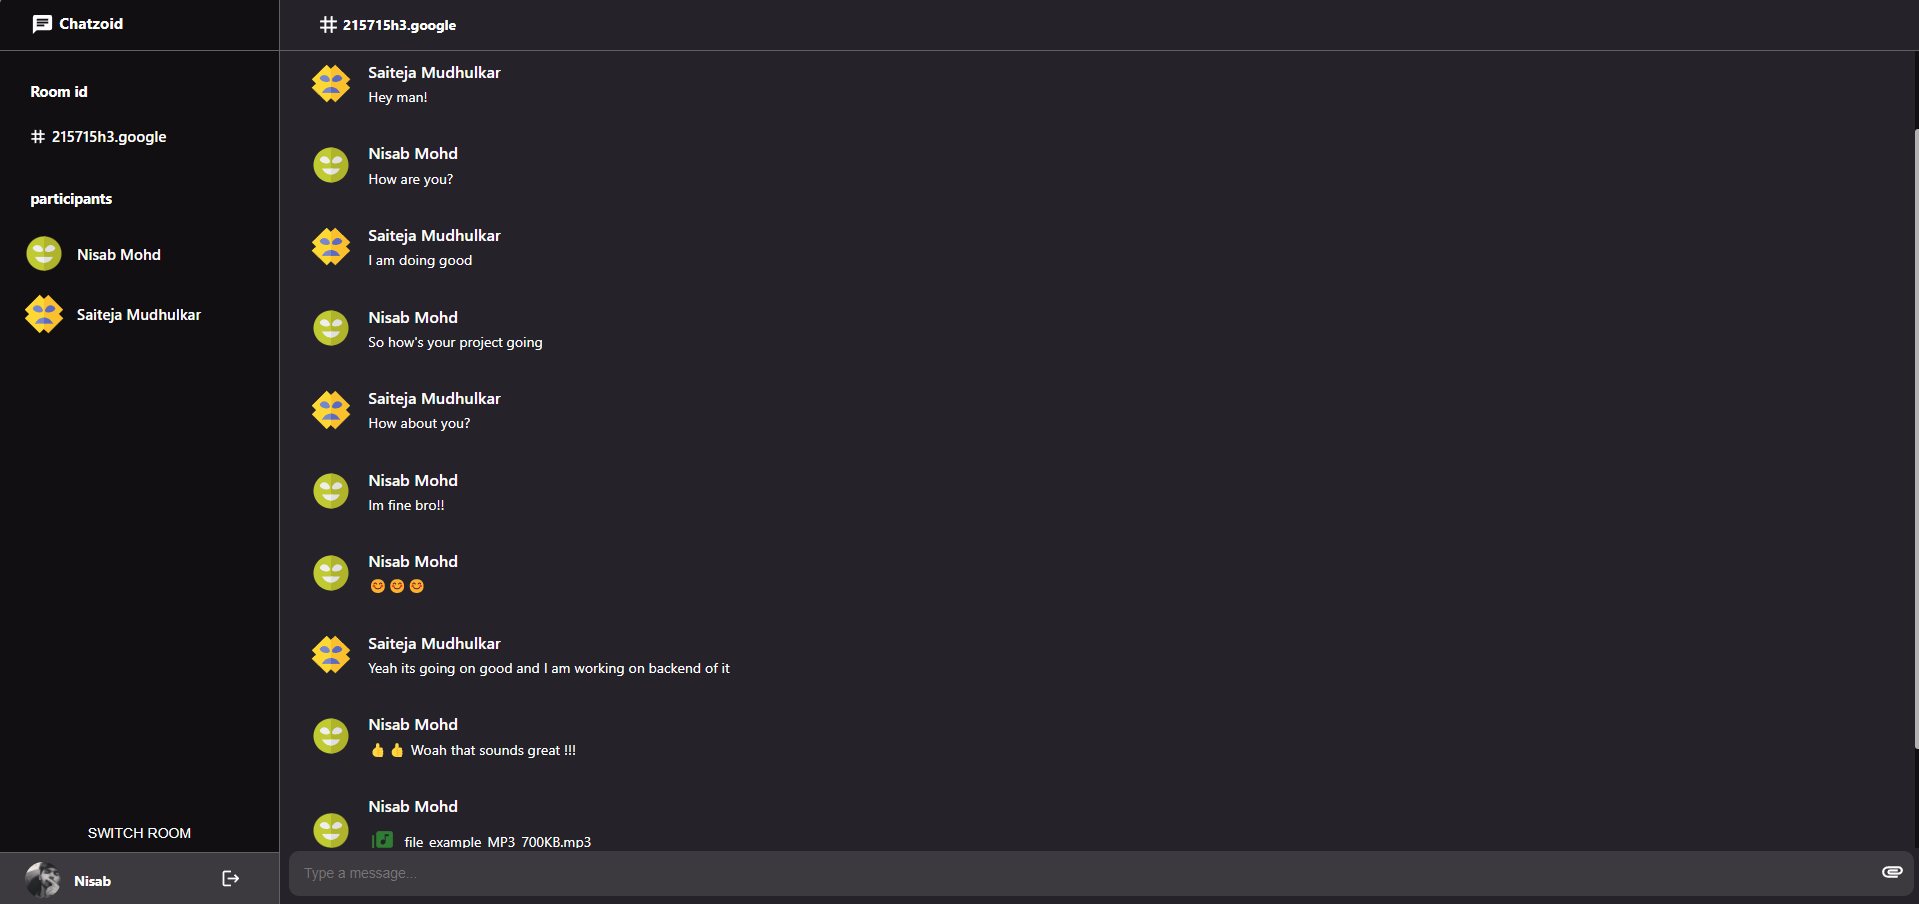
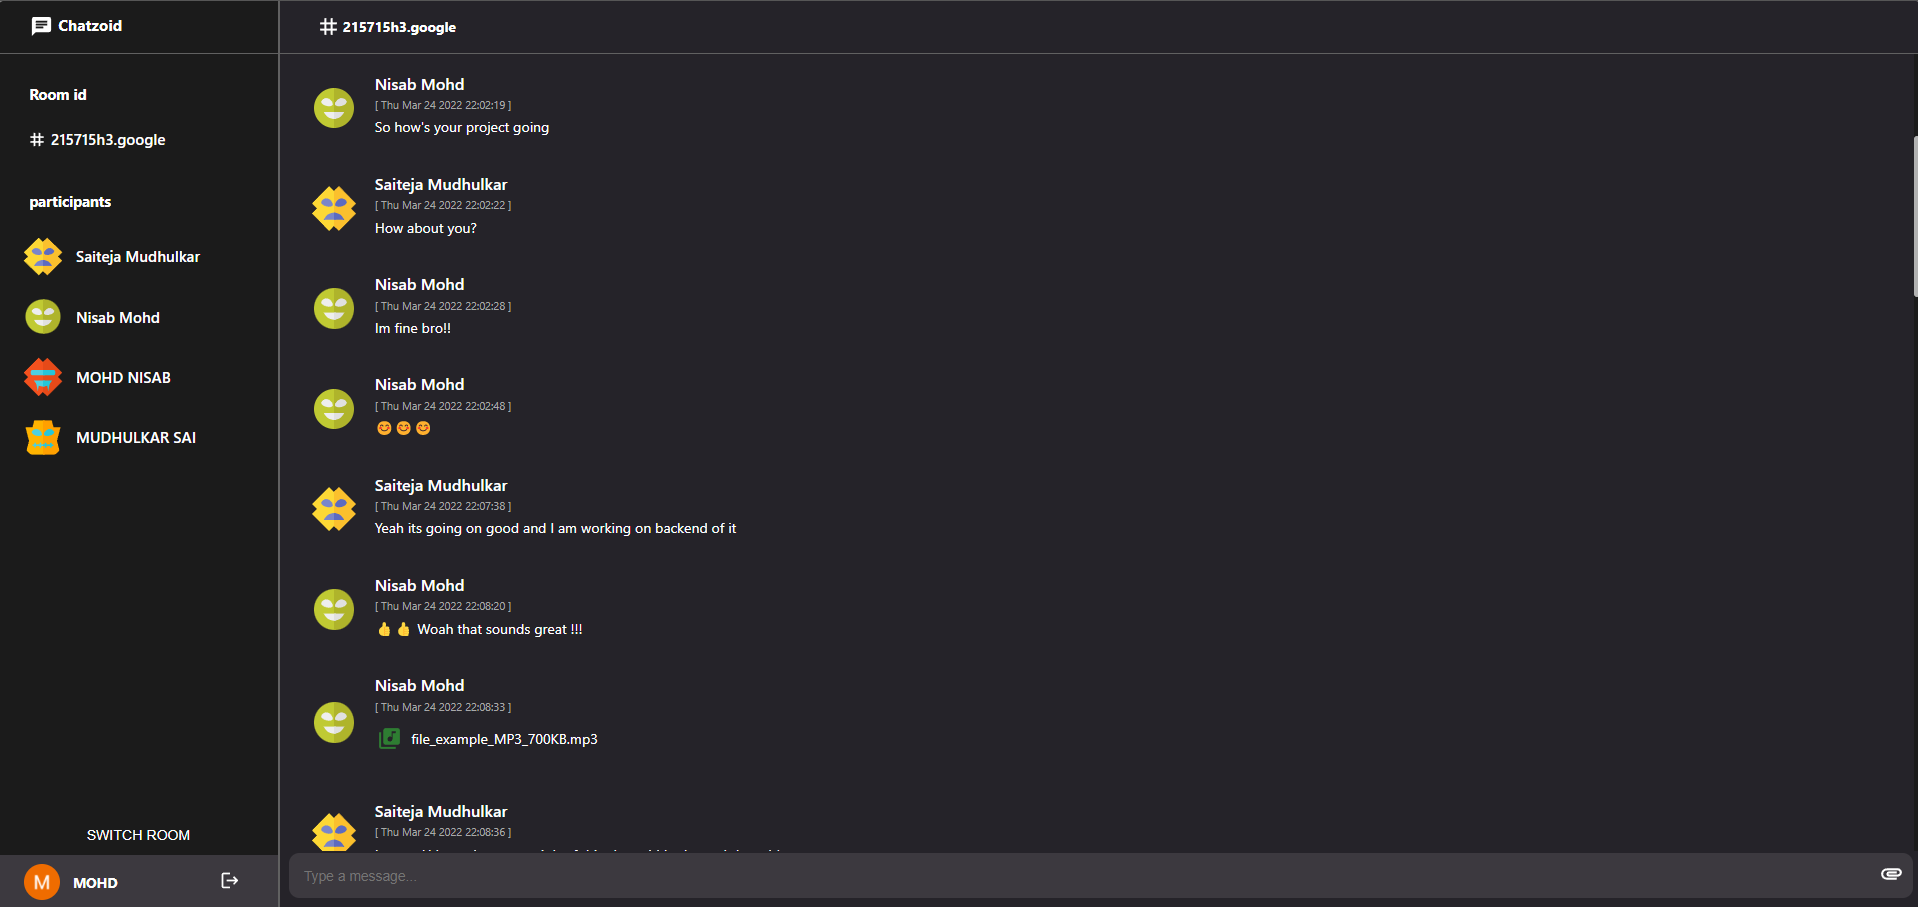
timestamp added to msgs

diff --git a/src/Chat.jsx b/src/Chat.jsx
@@ -128,49 +128,58 @@ function Chat(props) {
                     message.map((item, index) => {
                         return (
                             <div className="messageboxcont">
-                                <img style={{ width: '40px', borderRadius: '100%', marginTop: '-4px' }} src={`https://avatars.dicebear.com/api/gridy/${item.name}.svg`} alt="" />
+                                <img style={{ width: '46.5px', marginTop: '3px' }} src={`https://avatars.dicebear.com/api/gridy/${item.name}.svg`} alt="" />
                                 <div className="messagebox">
+                                    <div style={{display:'flex',flexDirection:'column'}}>
+
                                     <h5 style={{ fontSize: '15.5px', fontWeight: '600' }}>{item.name.split(' ')[0] + " " + item.name.split(' ')[1]}</h5>
+                                    <div className="timestamp" style={{marginTop:'3.5px'}}>
+                                    <p style={{color:'darkgrey',fontSize:'10.45px'}}>[ {item.timestamp?.toDate().toString().slice(0,25)}]</p>
+                                    </div>
+                                    </div>
                                     {
                                         item.text.includes('http') ? (
-                                            <div className="file" style={{ border: '0px solid #616161', borderRadius: '9px', padding: '2px 2px', marginTop: '5px', backgroundColor: '', paddingBottom: '12px',overflowX:'scroll',marginBottom:'-3px',zIndex:'99'}}>
-                                                <a key={index} href={item.text} target="_blank" className="chat__body__message" rel="noreferrer" style={{ display: 'flex', alignItems: 'center', paddingTop: '5px',textDecoration:'none',MarginRight:'9px' }}>
-                                                    {
+                                    <div className="file" style={{ border: '0px solid #616161', borderRadius: '9px', padding: '2px 2px', marginTop: '5px', backgroundColor: '', paddingBottom: '12px', overflowX: 'scroll', marginBottom: '-3px', zIndex: '99' }}>
+                                        <a key={index} href={item.text} target="_blank" className="chat__body__message" rel="noreferrer" style={{ display: 'flex', alignItems: 'center', paddingTop: '5px', textDecoration: 'none', MarginRight: '9px' }}>
+                                            {
 
-                                                        (item.filetype === "image/png" || item.filetype === "image/jpg" || item.filetype === "image/jpeg") ? (
-                                                            <ImageIcon color="primary" style={{ marginRight: '9px' ,fontSize:'24px' }}></ImageIcon>
-                                                        ) : (<></>)
-                                                    }
-                                                    {
+                                                (item.filetype === "image/png" || item.filetype === "image/jpg" || item.filetype === "image/jpeg") ? (
+                                                    <ImageIcon color="primary" style={{ marginRight: '9px', fontSize: '24px' }}></ImageIcon>
+                                                ) : (<></>)
+                                            }
+                                            {
 
-                                                        (item.filetype === "application/pdf") ? (
-                                                            <PictureAsPdfIcon sx={{ color: red[700] }}  style={{ marginRight: '9px',fontSize:'24px' }}></PictureAsPdfIcon>
-                                                        ) : (<></>)
-                                                    }
-                                                    {
+                                                (item.filetype === "application/pdf") ? (
+                                                    <PictureAsPdfIcon sx={{ color: red[700] }} style={{ marginRight: '9px', fontSize: '24px' }}></PictureAsPdfIcon>
+                                                ) : (<></>)
+                                            }
+                                            {
 
-                                                        (item.filetype === "audio/mpeg") ? (
-                                                            <LibraryMusicIcon color="success" style={{ marginRight: '9px',fontSize:'24px' }}></LibraryMusicIcon>
-                                                        ) : (<></>)
-                                                    }
-                                                    {
+                                                (item.filetype === "audio/mpeg") ? (
+                                                    <LibraryMusicIcon color="success" style={{ marginRight: '9px', fontSize: '24px' }}></LibraryMusicIcon>
+                                                ) : (<></>)
+                                            }
+                                            {
 
-                                                        (item.filetype === "video/mp4") ? (
-                                                            <VideocamIcon color="secondary" style={{ marginRight: '9px',fontSize:'24px' }}></VideocamIcon>
-                                                        ) : (<></>)
-                                                    }
-                                                    {
-                                                        (item.filetype)?(item.filename):(item.text)
-                                                    }
-                                                   
-                                                </a>
-                                            </div>
-                                        ) : (
-                                            <p key={index} className="chat__body__message">
-                                                {item.text}
-                                            </p>
-                                        )
+                                                (item.filetype === "video/mp4") ? (
+                                                    <VideocamIcon color="secondary" style={{ marginRight: '9px', fontSize: '24px' }}></VideocamIcon>
+                                                ) : (<></>)
+                                            }
+                                            {
+                                                (item.filetype) ? (item.filename) : (item.text)
+                                            }
+
+                                        </a>
+                                    </div>
+                                    ) : (
+                                    <p key={index} className="chat__body__message">
+                                        {item.text}
+                                    </p>
+                                    )
                                     }
+                                    {/* <div className="timestamp" style={{marginTop:'3px',marginLeft:'-23px'}}>
+                                    {item.timestamp.toDate().toString().slice(0,25)}
+                                    </div> */}
 
                                 </div>
                             </div>
@@ -183,7 +192,7 @@ function Chat(props) {
                 <div className="forbginput chat__footer" >
                     <input value={input} type="text" placeholder='Type a message...' onKeyPress={(e) => handleEnterButton(e)} onChange={inputhandler} />
                     <input type="file" name="" onChange={(e) => handlefiles(e)} id="filein" hidden />
-                    <label htmlFor='filein' style={{ border: 'none', outline: 'none', cursor: 'pointer' }}><AttachmentIcon/></label>
+                    <label htmlFor='filein' style={{ border: 'none', outline: 'none', cursor: 'pointer' }}><AttachmentIcon /></label>
 
                     {/* {
                         input ? (<Button onClick={() => { sendMessage() }} variant="outlined" style={{ height: '35px', marginRight: '9px' }} size="small">

diff --git a/src/Leftbar.js b/src/Leftbar.js
@@ -35,9 +35,9 @@ export const Leftbar = (props) => {
         }
 
       </div>
-      <div className='leftbar' id='showleft' style={{ backgroundColor: 'rgb(18,15,19)', minWidth: '262px', borderRight: '1px solid #616161', position: 'relative', height: '100%', flex: '0.17', transition: 'all 0.25s' }}>
+      <div className='leftbar' id='showleft' style={{ backgroundColor: 'rgb(27,27,27)', minWidth: '262px', borderRight: '1.93px solid #616161', position: 'relative', height: '100%', flex: '0.17', transition: 'all 0.25s' }}>
 
-        <div className="roomdetails" style={{ height: '48.75px', borderBottom: '1px solid #616161', display: 'flex', alignItems: 'center', position: 'relative',}}>
+        <div className="roomdetails" style={{ height: '48.75px', borderBottom: '1.72px solid #616161', display: 'flex', alignItems: 'center', position: 'relative',}}>
           <ChatIcon color="diabled" style={{ marginLeft: '30px', width: '22px' }}></ChatIcon>
           <h4 style={{ marginLeft: '5px', fontSize: '14.85px', marginTop: '-4px', color: 'white' }}>Chatzoid</h4>
         </div>
@@ -69,7 +69,7 @@ export const Leftbar = (props) => {
             switch room
           </Button>
         </div>
-        <div className="userdetails" style={{ marginTop: 'auto', display: 'flex', flexDirection: 'row', alignItems: 'center', position: 'absolute', bottom: '0px', height: '52px', backgroundColor: 'rgb(60,57,63)', borderTop: '1px solid #616161', width: '100%' }}>
+        <div className="userdetails" style={{ marginTop: 'auto', display: 'flex', flexDirection: 'row', alignItems: 'center', position: 'absolute', bottom: '0px', height: '52px', backgroundColor: 'rgb(60,57,63)', width: '100%' }}>
           <img src={props.photo} style={{ width: '35px', borderRadius: '100%', marginLeft: '24px' }} alt="" />
           <h5 style={{ marginLeft: '12px', color: 'white' }}>{props.name.split(' ')[0]}</h5>
           <button onClick={() => { props.logout(); }} style={{ cursor: 'pointer', width: '100%', marginLeft: '59px', outline: 'none', border: 'none', backgroundColor: 'transparent', position: 'absolute', left: '29px' }}><LogoutIcon style={{ width: '20px',color:'white' }}></LogoutIcon></button>

diff --git a/src/css/chatpage.css b/src/css/chatpage.css
@@ -110,7 +110,7 @@
 }
 *::-webkit-scrollbar-track
 {
-	-webkit-box-shadow: inset 0 0 6px rgb(18,15,19);
+	-webkit-box-shadow: inset 0 0 6px rgb(27,27,27);
 	border-radius: 10px;
     scroll-behavior: smooth;
 }
@@ -118,7 +118,7 @@
 {
 	height: 9px;
     width: 6px;
-    background-color: rgb(18,15,19);
+    background-color: rgb(27,27,27);
 }
 
 *::-webkit-scrollbar-thumb

diff --git a/src/App.css b/src/App.css
@@ -2,7 +2,7 @@
   /* background-image: url('./imgs/bg1.jpg');
   background-position: center; */
   /* background-color: rgb(37,35,41); */
-  background-color: rgb(18,15,19);
+  background-color: rgb(27,27,27);
   height: 100vh;
   display: flex;
   justify-content: center;

diff --git a/src/css/Responsive.css b/src/css/Responsive.css
@@ -30,7 +30,7 @@
 }
 .navbarmenu{
     height:49px;
-    border-bottom:1px solid #616161;
+    border-bottom:1.5px solid #616161;
     display:flex;
     align-items:center;
     padding-left: 35px;
